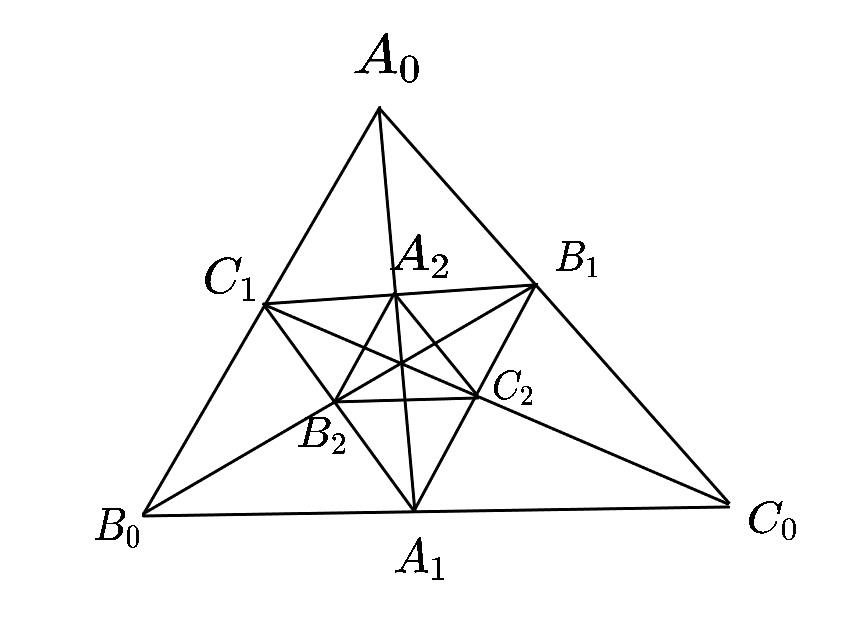
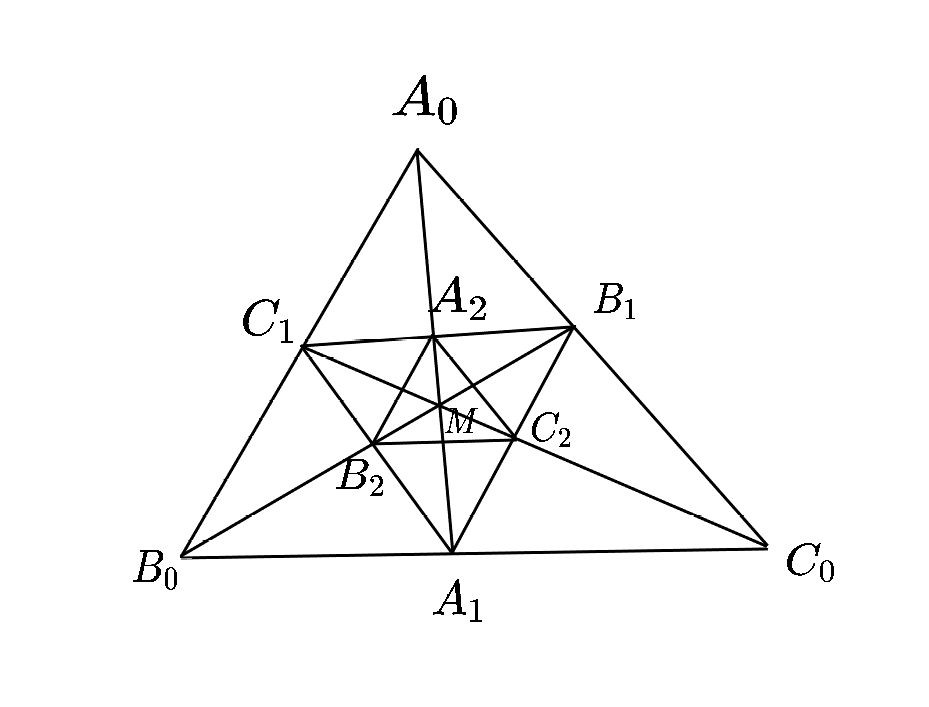
写文章

Changed region(s): [[0.1231, 0.0601, 0.9538, 0.932], [0.6769, 0.6915, 0.7385, 0.7215]]

diff --git a/content/zh/post/first_test/index.md b/content/zh/post/first_test/index.md
@@ -42,9 +42,40 @@ projects: []
 
 #### 问题简述
 
-{{< figure src="question.png" caption="问题图示"  width="75%" height="75%" >}}
+{{< figure src="question.png" caption="问题背景图示"  width="75%" height="75%" >}}
 
-如上图所示，作一个三角形$\Delta A_0 B_0 C_0$，分别从三角形各顶点$A_0$、$B_0$、$C_0$过三角形内一定作直线交对边于点$A_1$、$B_1$、$C_1$，然后连接$A_1$、$B_1$、$C_1$这三个点得到一个新的三角形$\Delta A_1 B_1 C_1$，然后又产生了新的三个交点$A_2$、$B_2$、$C_2$，然后再连接这三个点又得到新的三角形$\Delta A_2 B_2 C_2$，按这样的步骤循环下去可以得到一个三角形序列$\{\Delta A_n B_n C_n \}$
+如上图所示，作一个三角形$\Delta A_0 B_0 C_0$，分别从三角形各顶点$A_0$、$B_0$、$C_0$过三角形内一点$M$作直线交对边于点$A_1$、$B_1$、$C_1$，然后连接$A_1$、$B_1$、$C_1$这三个点得到一个新的三角形$\Delta A_1 B_1 C_1$，然后又产生了新的三个交点$A_2$、$B_2$、$C_2$，然后再连接这三个点又得到新的三角形$\Delta A_2 B_2 C_2$，按这样的步骤循环下去可以得到一个三角形序列$\left[ \Delta A_n B_n C_n \right]$
+
+
+#### 命题一
+
+> 线段$A_0 B_2$、$A_2 B_0$、$M C_1$三线共点。
+
+也就等价于证明下图中三个橙色的点共线。
+
+{{< figure src="n=1.png" caption="定理一图示"  width="75%" height="75%" >}}
+
+而这一点可以借助帕斯卡定理证明，而帕斯卡定理中需要指明的六边形各点1、2、3、4、5、6已经在图中标明，所以命题成立。
+
+#### 命题二
+
+> 线段$A_0 B_2k$、$A_2k B_0$、$M C_1$三线共点，$k=1,2,3...$
+
+针对这一命题可以借助数学归纳法来证明。
+
+首先是$n=1$时，也就是命题一所描述的情况，所以此时命题二成立。
+
+之后假设$n=k$时成立，借助此假设可以作出下图:
+
+{{< figure src="n=k+.png" caption="n=k"  width="75%" height="75%" >}}
+
+对于$n=k+1$的情况，也就是证明线段$C_{2k+1} C_{2k}$、$B_0 A_{2k+2}$、$A_0 B_{2k+2}$三线共点。
+
+我们再借助布利安桑定理，在上图的基础上连接几条线段并取几个交点，具体作法如下图所示：
+
+{{< figure src="n=k+1.png" caption="辅助线作法"  width="75%" height="75%" >}}
+
+根据布利安桑定理，1、2、3、4、5、6为六边形的六个点，图中M,N点就是需要六边形各边交替通过的两个点，因此只需再证明1、6、N三点共线即可。
 
 <div id = "refer-anchor"></div>
 
